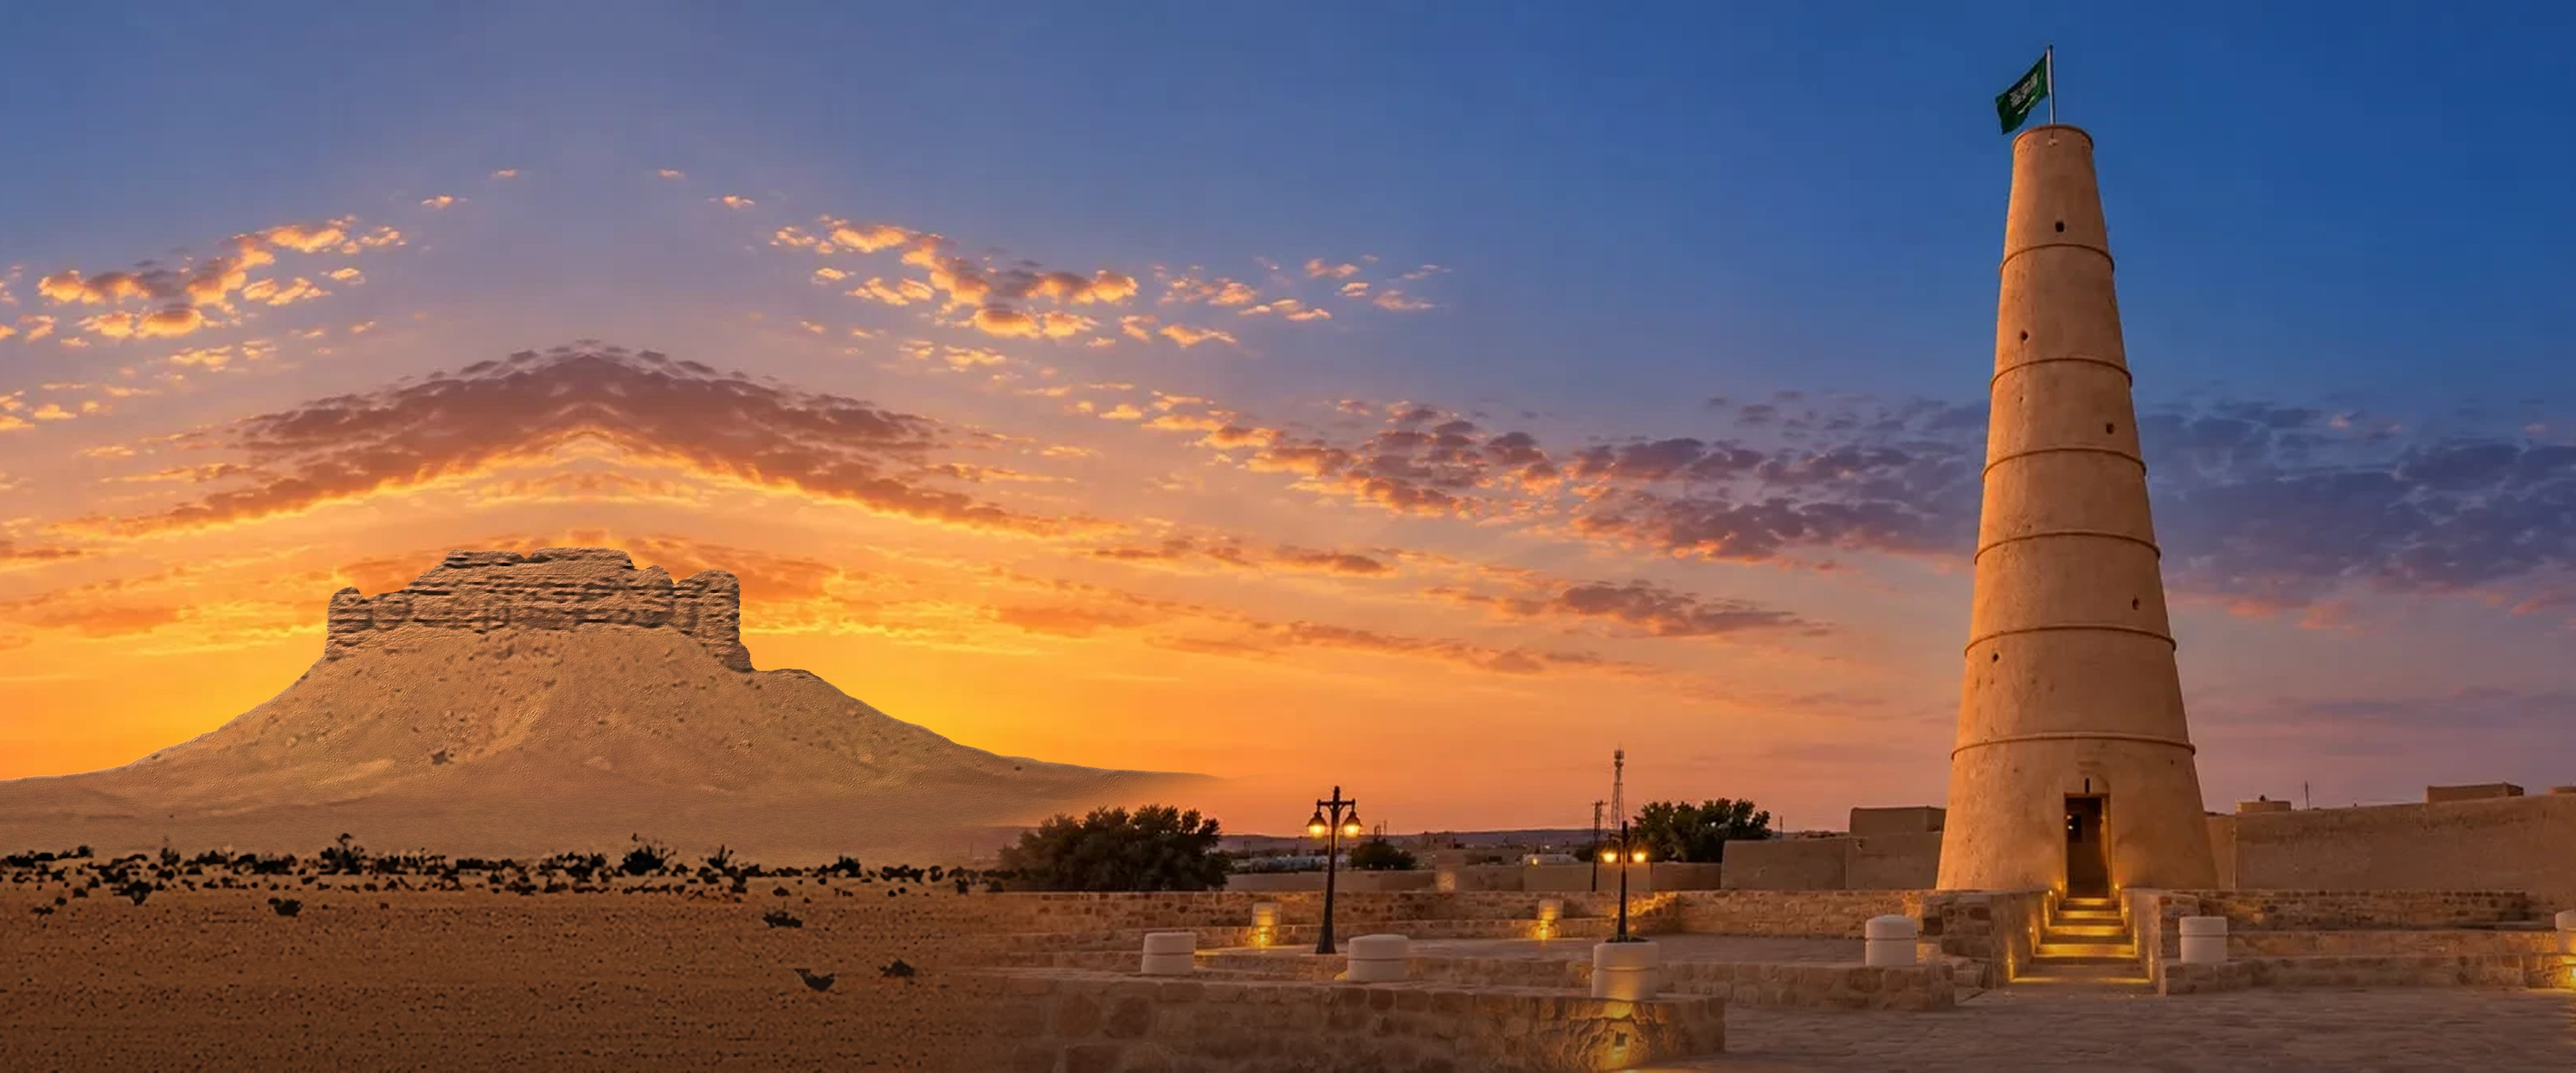
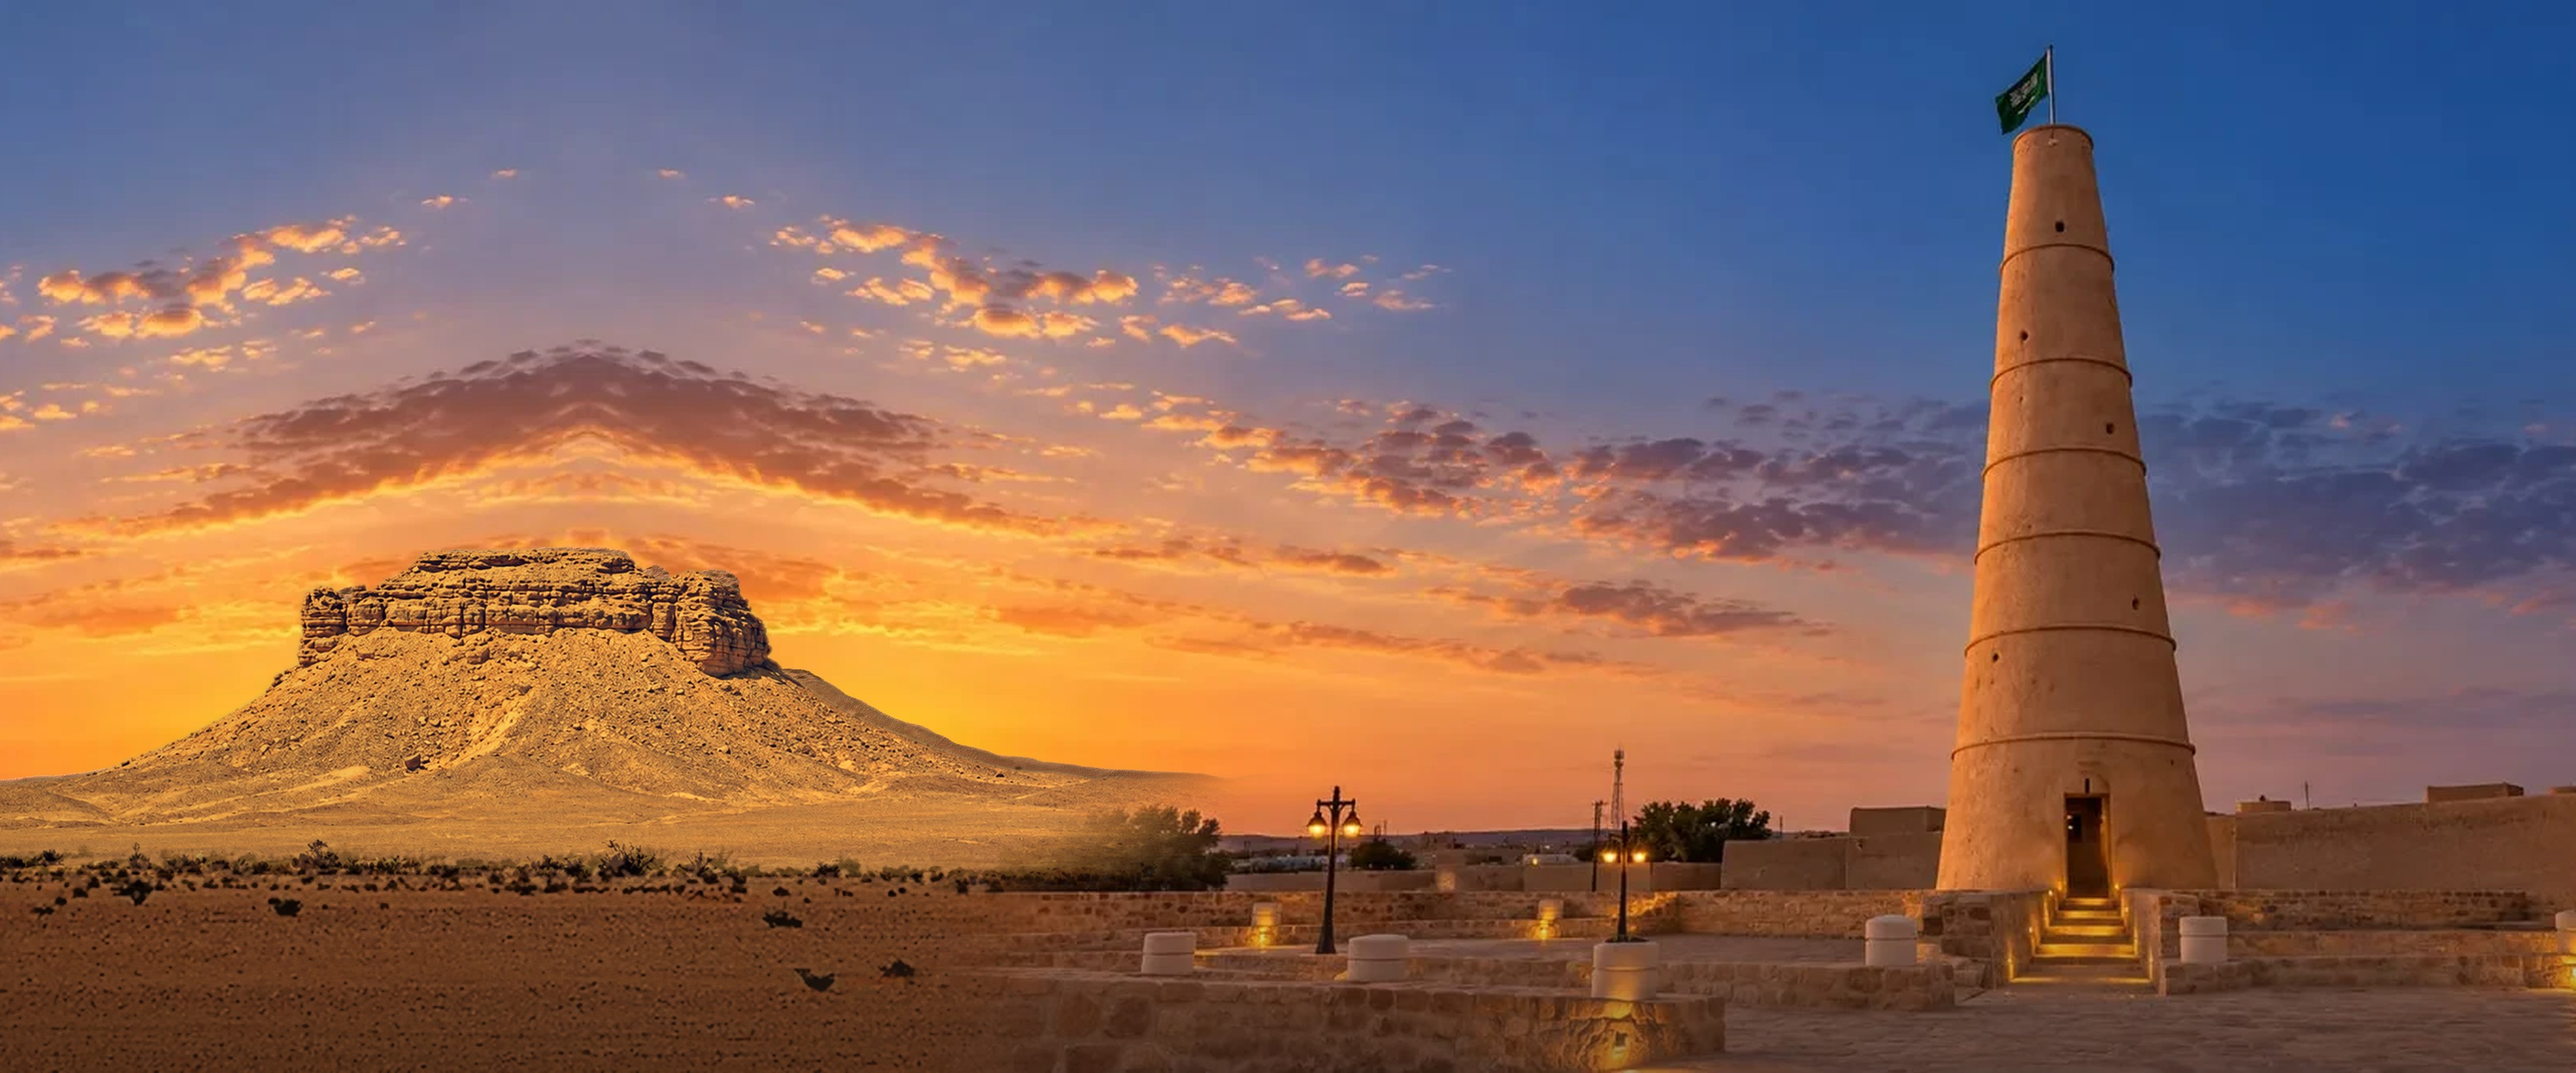
Clear Markab mountain photo blended into the sunset scene (tree site and portal)

Changed region(s): [[0.0, 0.5, 0.4688, 0.8438]]

diff --git a/v7/sw.js b/v7/sw.js
@@ -1,5 +1,5 @@
 // خدمة العمل بدون إنترنت: الواجهة من الشبكة أولاً، والصور والبلاطات من الذاكرة أولاً
-const C='ajlan-v7-16',SHELL=['./','./index.html','./nasab.html','./people_all.json','./manifest.webmanifest','./bg/bg-scene.jpg','./bg/crown-mask.png','./bg/node-mask.png','./bg/logo.png','../v4/tree-small.jpg'];
+const C='ajlan-v7-17',SHELL=['./','./index.html','./nasab.html','./people_all.json','./manifest.webmanifest','./bg/bg-scene.jpg','./bg/crown-mask.png','./bg/node-mask.png','./bg/logo.png','../v4/tree-small.jpg'];
 self.addEventListener('install',e=>{e.waitUntil(caches.open(C).then(c=>c.addAll(SHELL)).then(()=>self.skipWaiting()));});
 self.addEventListener('activate',e=>{e.waitUntil(caches.keys().then(ks=>Promise.all(ks.filter(k=>k!==C).map(k=>caches.delete(k)))).then(()=>self.clients.claim()));});
 self.addEventListener('fetch',e=>{const r=e.request;if(r.method!=='GET')return;const u=new URL(r.url);
